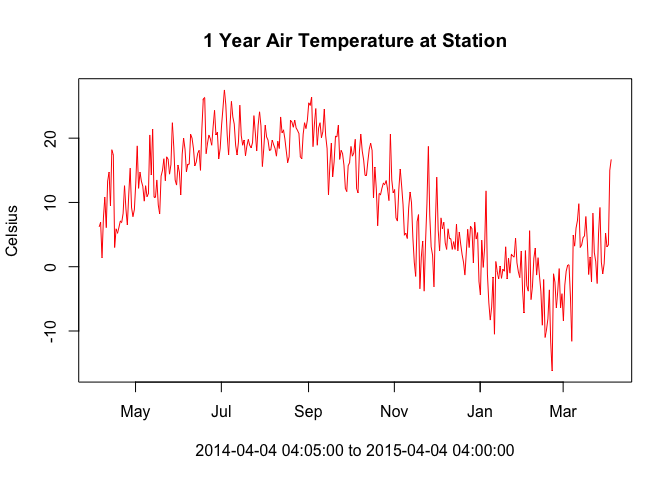
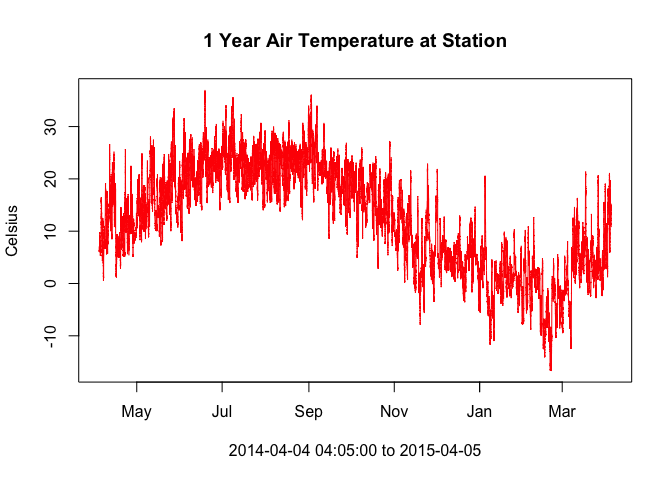
updated week 3

diff --git a/R/Week3_TimeSeriesDEOS.md b/R/Week3_TimeSeriesDEOS.md
@@ -276,16 +276,25 @@ class(deos_data$datetime)
 # give it a datetime class, notice the format
 deos_data$datetime = as.POSIXct(deos_data$datetime, format = '%Y-%m-%d %H:%M')
 
-plot(deos_data$datetime[1:365*24*12], deos_data$air_temperature[1:365*24*12], type = "l", col = 'red', xlab = paste0(deos_data$datetime[1], " to ", deos_data$datetime[365*24*12]), ylab = "Celsius")
+
+# subset the data using the which.min() and which.max() functions to find our indices
+low_ind = which.min(deos_data$datetime < "2014-04-04 00:00:00")
+upper_ind = which.max(deos_data$datetime > "2015-04-04 23:59")
+
+plot(deos_data$datetime[low_ind:upper_ind], deos_data$air_temperature[low_ind:upper_ind], type = "l", col = 'red', 
+     xlab = paste0(deos_data$datetime[low_ind], " to ", deos_data$datetime[upper_ind]), ylab = "Celsius")
 title("1 Year Air Temperature at Station")
 ```
 
 ![](Week3_TimeSeriesDEOS_files/figure-markdown_github/unnamed-chunk-9-1.png)
 
 ``` r
+#subset the data using the subset function 
+subDeos = subset(deos_data, deos_data$datetime >= "2014-07-04 00:00:00" & deos_data$datetime <= "2014-07-11 23:59:00")
+
 # Now add dewpoint to that plot
-plot(deos_data$datetime[1:7*24*12], deos_data$air_temperature[1:7*24*12], type = "l", col = 'red', xlab = paste0(deos_data$datetime[1], " to ", deos_data$datetime[7*24*12]), ylab = "Celsius", ylim = c(-5,10))
-lines(deos_data$datetime[1:7*24*12], deos_data$dewpoint[1:7*24*12], col = 'yellow')
+plot(subDeos$datetime, subDeos$air_temperature, type = "l", col = 'red', xlab = paste0(subDeos$datetime[1], " to ", subDeos$datetime[length(subDeos$datetime)]), ylab = "Celsius", ylim = c(5,40))
+lines(subDeos$datetime, subDeos$dewpoint, col = 'yellow')
 legend('bottomright', legend=c('Air Temp', 'Dew Pt'), col = c('red', 'yellow'), lty = c(1, 1))
 title("Air Temperature & Dew Point Temperature")
 ```
